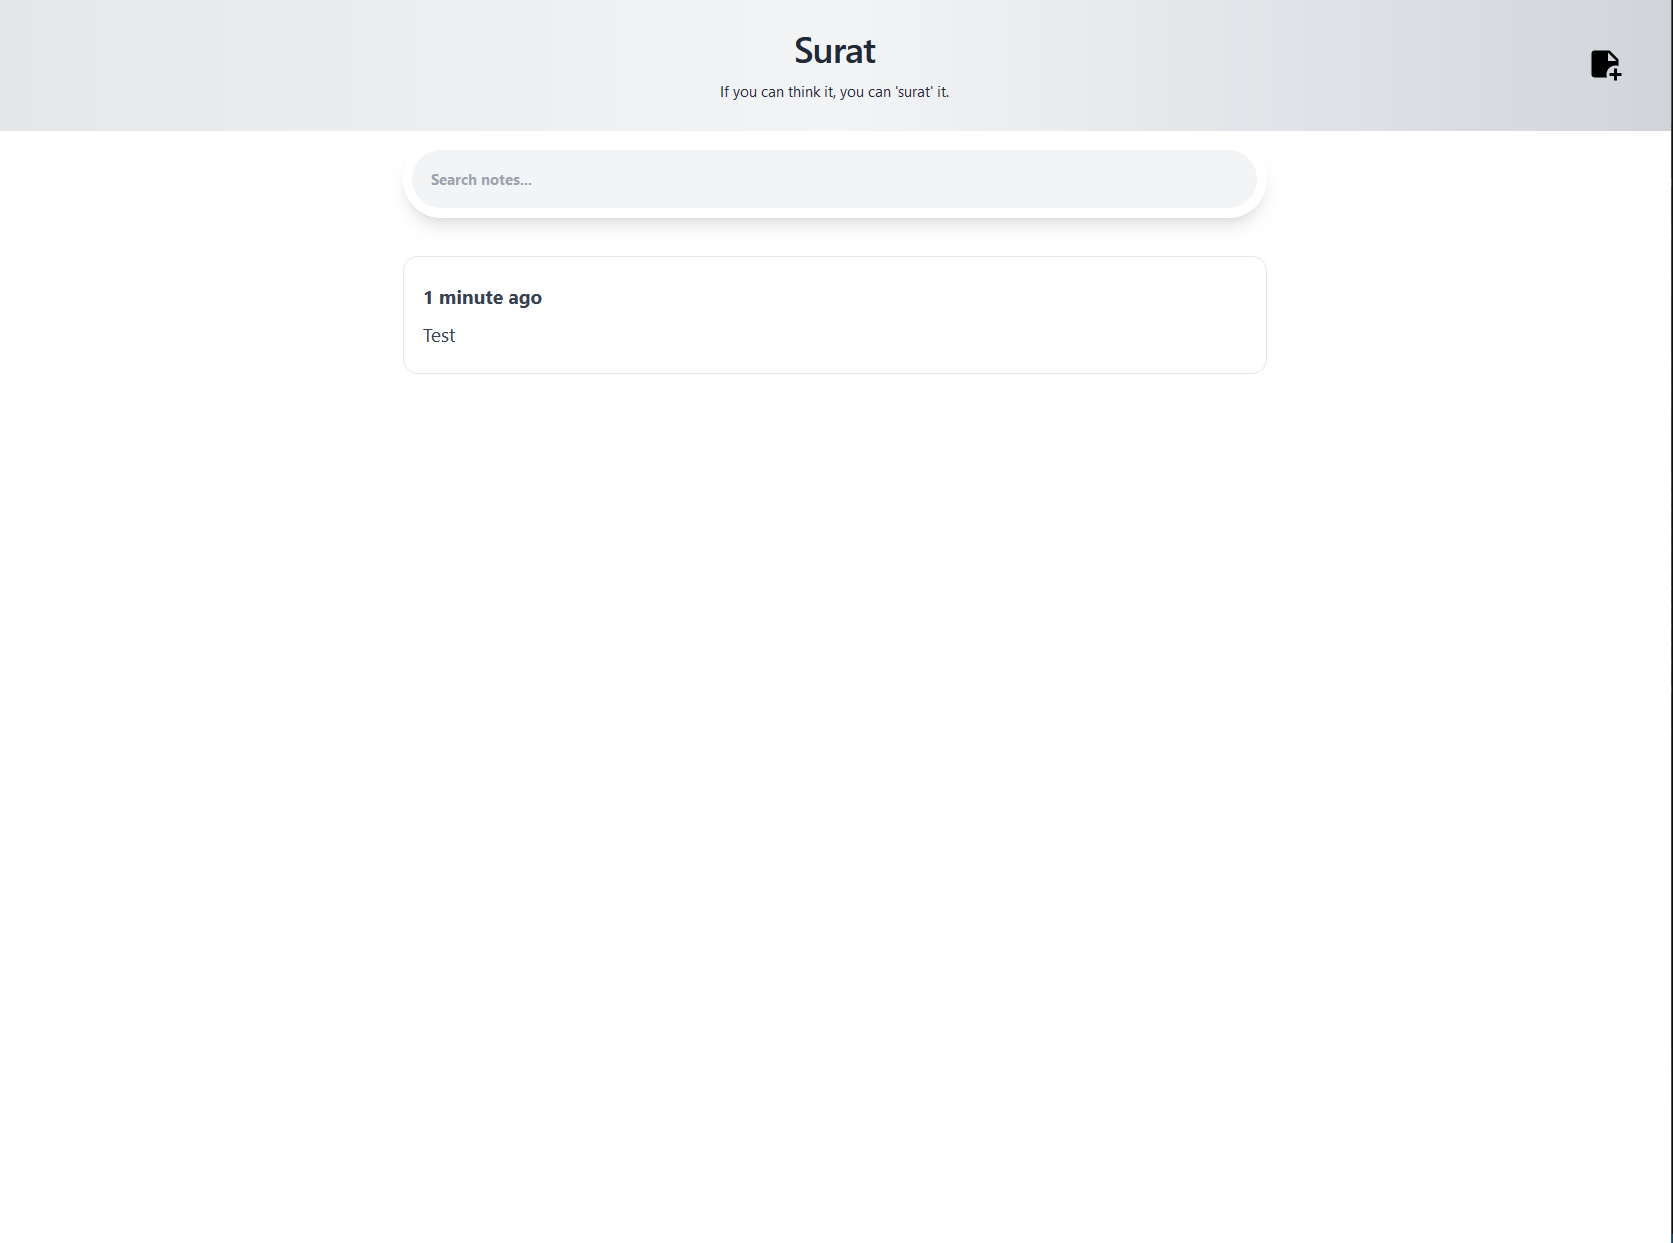
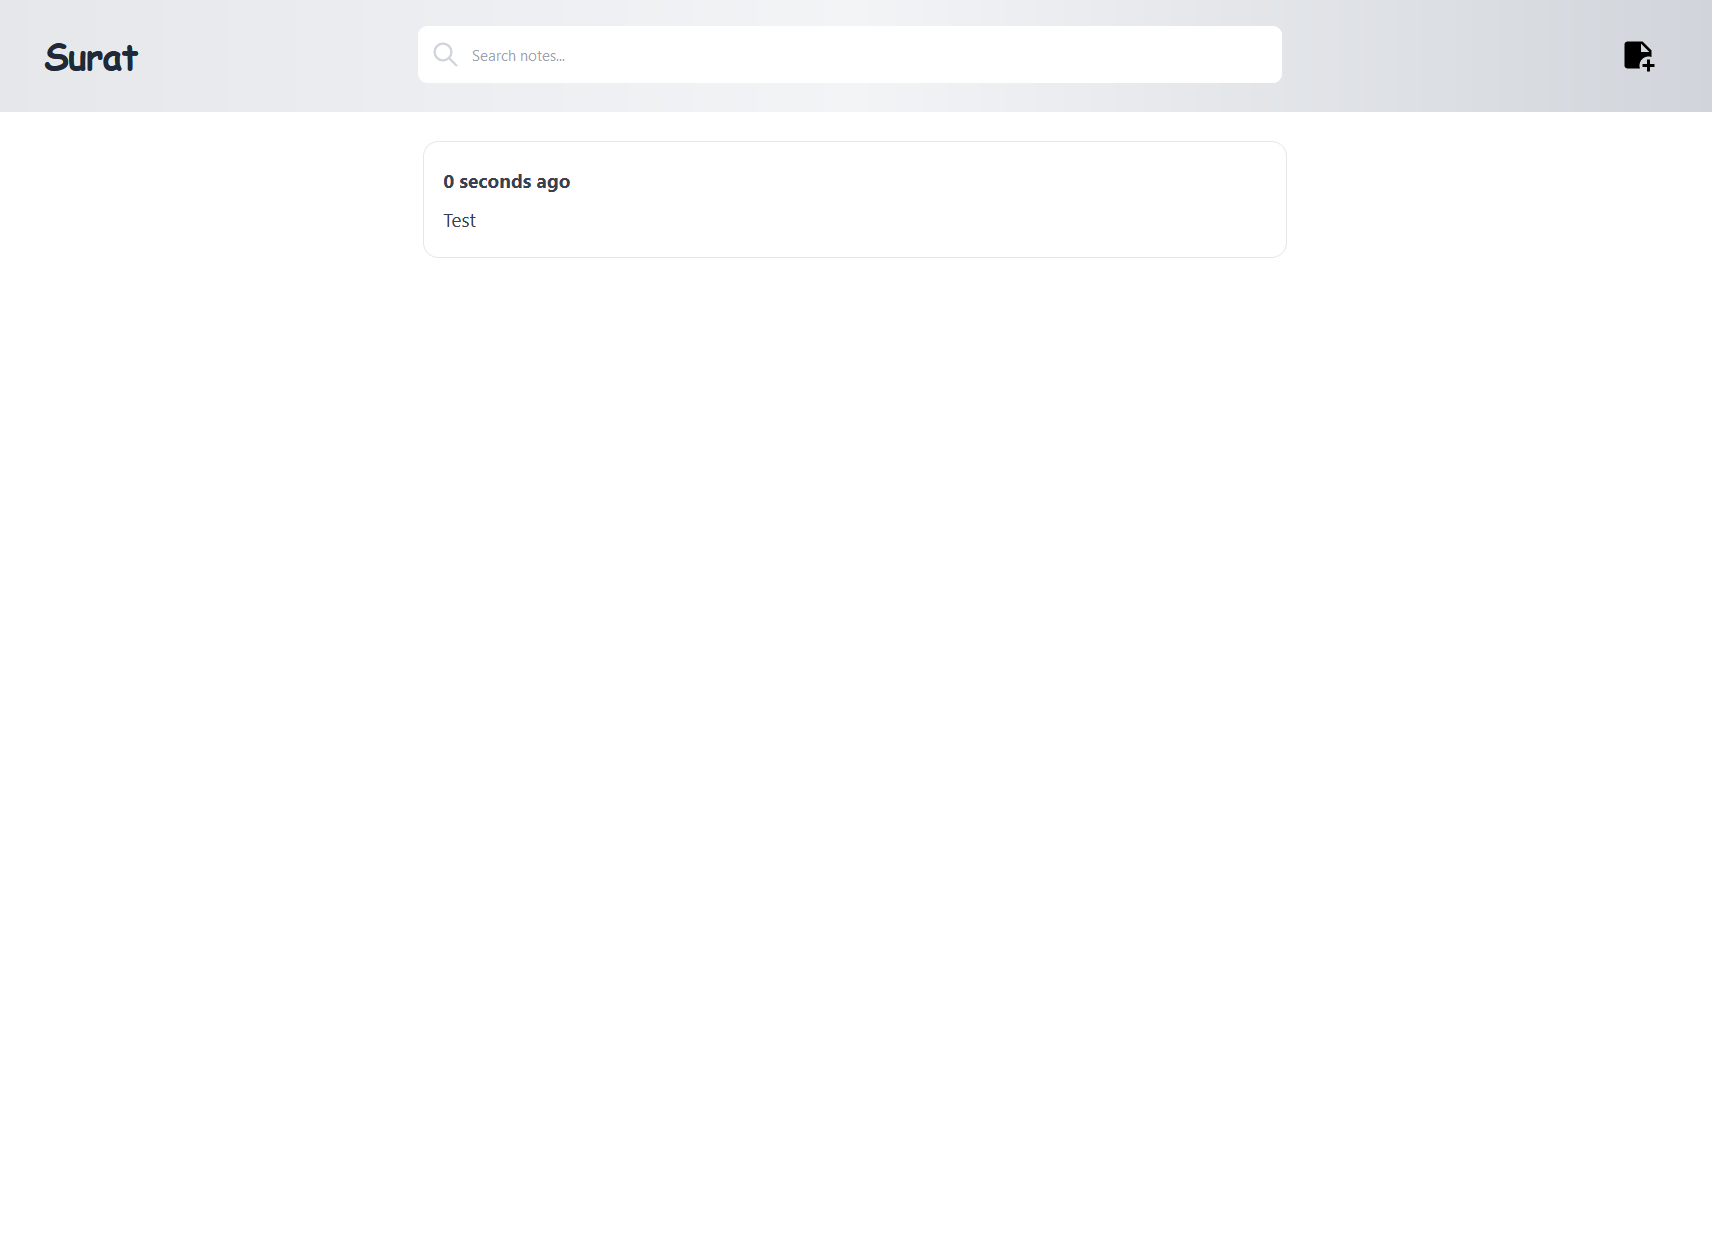
Ui changes

diff --git a/src/views/HomeView.vue b/src/views/HomeView.vue
@@ -1,38 +1,38 @@
 <template>
   <main>
-    <div class="bg-gradient-to-r from-gray-200 via-gray-100 to-gray-300 text-gray-800 py-6 text-center">
-      <h1 class="text-3xl font-semibold tracking-tight">Surat</h1>
-      <p class="mt-2 text-sm">If you can think it, you can 'surat' it.</p>
-    </div>
-    <div class="flex flex-row items-center justify-center p-2">
-      <div>
-        <div class="flex flex-col max-w-720 md:w-720 max-md:w-96 m-h-screen">
-          <div
-            class="bg-white items-center justify-between w-full flex rounded-full shadow-lg p-2 mb-5 sticky hover:border-2"
-            style="top: 5px">
-            <input v-model="searchTerm"
-              class="font-bold  rounded-full w-full py-4 pl-4 text-gray-700 bg-gray-100 leading-tight focus:outline-none focus:shadow-outline lg:text-sm text-xs"
-              type="text" placeholder="Search notes...">
+    <div class="flex items-center bg-gradient-to-r from-gray-200 via-gray-100 to-gray-300 text-gray-800 h-24 mb-5">
+      <h1 class="text-3xl font-semibold tracking-tight ml-10 custom-font">Surat</h1>
+      <div class="flex items-center justify-center flex-grow">
+        <div class="flex flex-col max-w-720 md:w-720 max-md:w-96">
+          <div class="relative flex items-center w-full h-12 rounded-lg focus-within:shadow-lg bg-white overflow-hidden hover:shadow-md transition duration-300 hover:scale-105">
+            <div class="grid place-items-center h-full w-12 text-gray-300">
+              <svg xmlns="http://www.w3.org/2000/svg" class="h-6 w-6 " fill="none" viewBox="0 0 24 24"
+                stroke="currentColor">
+                <path stroke-linecap="round" stroke-linejoin="round" stroke-width="2"
+                  d="M21 21l-6-6m2-5a7 7 0 11-14 0 7 7 0 0114 0z" />
+              </svg>
+            </div>
+            <input v-model="searchTerm" class="peer h-full w-full outline-none text-sm text-gray-700 pr-2" type="text"
+              id="search" placeholder="Search notes..." />
           </div>
         </div>
       </div>
+      <div class="flex items-center justify-end p-2">
+        <div class="p-5">
+          <button class="m-5 hover:scale-110" @click="openModal(false)">
+            <svg xmlns="http://www.w3.org/2000/svg" height="30" width="30" viewBox="0 0 24 24">
+              <title>Add Note</title>
+              <path
+                d="M19 13C19.7 13 20.37 13.13 21 13.35V9L15 3H5C3.89 3 3 3.89 3 5V19C3 20.11 3.9 21 5 21H13.35C13.13 20.37 13 19.7 13 19C13 15.69 15.69 13 19 13M14 4.5L19.5 10H14V4.5M23 18V20H20V23H18V20H15V18H18V15H20V18H23Z" />
+            </svg>
+          </button>
+        </div>
+      </div>
     </div>
-
-    <div class="fixed top-0 right-0 p-5 transform translate-y-0">
-      <button class="m-5 hover:scale-110" @click="openModal(false)">
-        <svg xmlns="http://www.w3.org/2000/svg" height="30" width="30" viewBox="0 0 24 24">
-          <title>Add Note</title>
-          <path
-            d="M19 13C19.7 13 20.37 13.13 21 13.35V9L15 3H5C3.89 3 3 3.89 3 5V19C3 20.11 3.9 21 5 21H13.35C13.13 20.37 13 19.7 13 19C13 15.69 15.69 13 19 13M14 4.5L19.5 10H14V4.5M23 18V20H20V23H18V20H15V18H18V15H20V18H23Z" />
-        </svg>
-      </button>
-    </div>
-
     <transition enter-active-class="transition-transform duration-500 ease-out" enter-from-class="scale-0 opacity-0"
       enter-to-class="scale-100 opacity-100">
       <ModalWindow :modal="modal" @handleNote="handleNote" @closeModal="closeModal" :key="modal.id" />
     </transition>
-
     <div class="bg-white dark:bg-slate-950">
       <div class="flex flex-col items-center">
         <div v-for="(item, index) in sortedNotes" :key="index" @click="openModal(true, item)">
@@ -40,7 +40,6 @@
         </div>
       </div>
     </div>
-
   </main>
 </template>
 
@@ -130,7 +129,9 @@ const sortedNotes = computed(() => {
   background-color: red;
   color: white;
 
+}
 
-
+.custom-font {
+  font-family: 'SnellRoundhand', cursive;
 }
 </style>

diff --git a/src/components/NoteItem.vue b/src/components/NoteItem.vue
@@ -1,6 +1,6 @@
 <template>
   <div class="flex px-2 py-1 transition duration-300 hover:scale-105" v-show="note">
-    <div class="flex flex-col max-md:w-96 md:w-720 text-gray-700 dark:text-gray-105 bg-white  dark:bg-slate-900 border hover:border-2 hover:shadow-sm bg-clip-border
+    <div class="flex flex-col max-md:w-96 md:w-720 text-gray-700 dark:text-gray-105 bg-white  dark:bg-slate-900 border hover:shadow-md bg-clip-border
         dark:border-slate-200 rounded-xl px-4 py-5">
       <div class="flex  mb-2 flex justify-between">
         <div class="font-bold">
